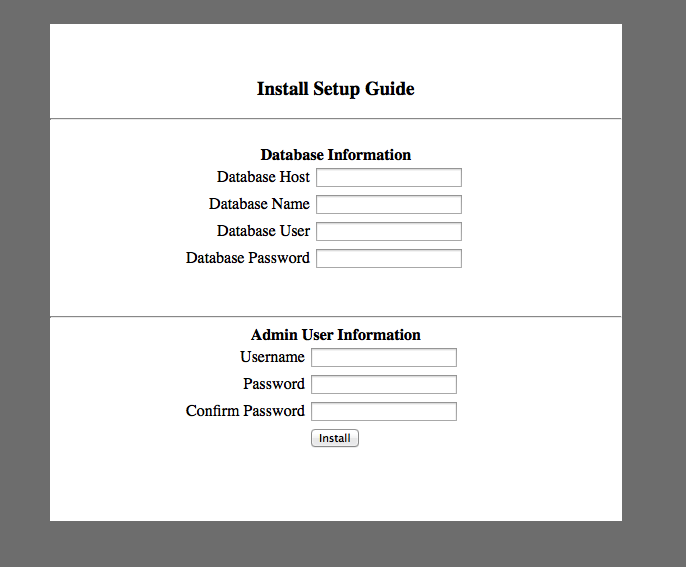
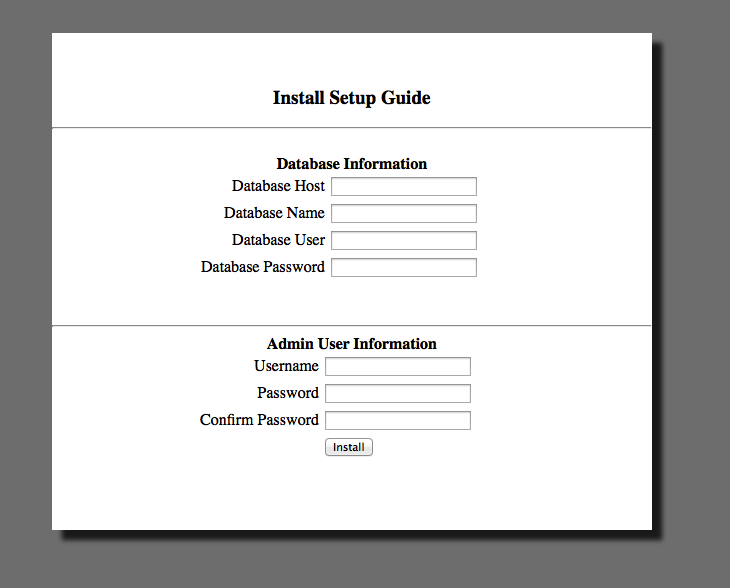
Install Page Shadow

Changed region(s): [[0.0612, 0.03, 0.9184, 0.9295]]

diff --git a/install.php b/install.php
@@ -58,13 +58,19 @@ if(isset($_POST['db_host'])){
 <html>
 <head>
 
-
+<style>
+    .shadow {
+	  -webkit-box-shadow: 10px 10px 5px 0px rgba(0,0,0,0.75);
+		-moz-box-shadow: 10px 10px 5px 0px rgba(0,0,0,0.75);
+		box-shadow: 10px 10px 5px 0px rgba(0,0,0,0.75);
+	}
+</style>
 </head>
 <body style="background-color: grey">
 
 <br />
 <br />
-<center><div style="background-color: white; width:50%">
+<center><div style="background-color: white; width:50%" class="shadow">
 <br /><br />
 <h3>Install Setup Guide</h3>
 <hr>
